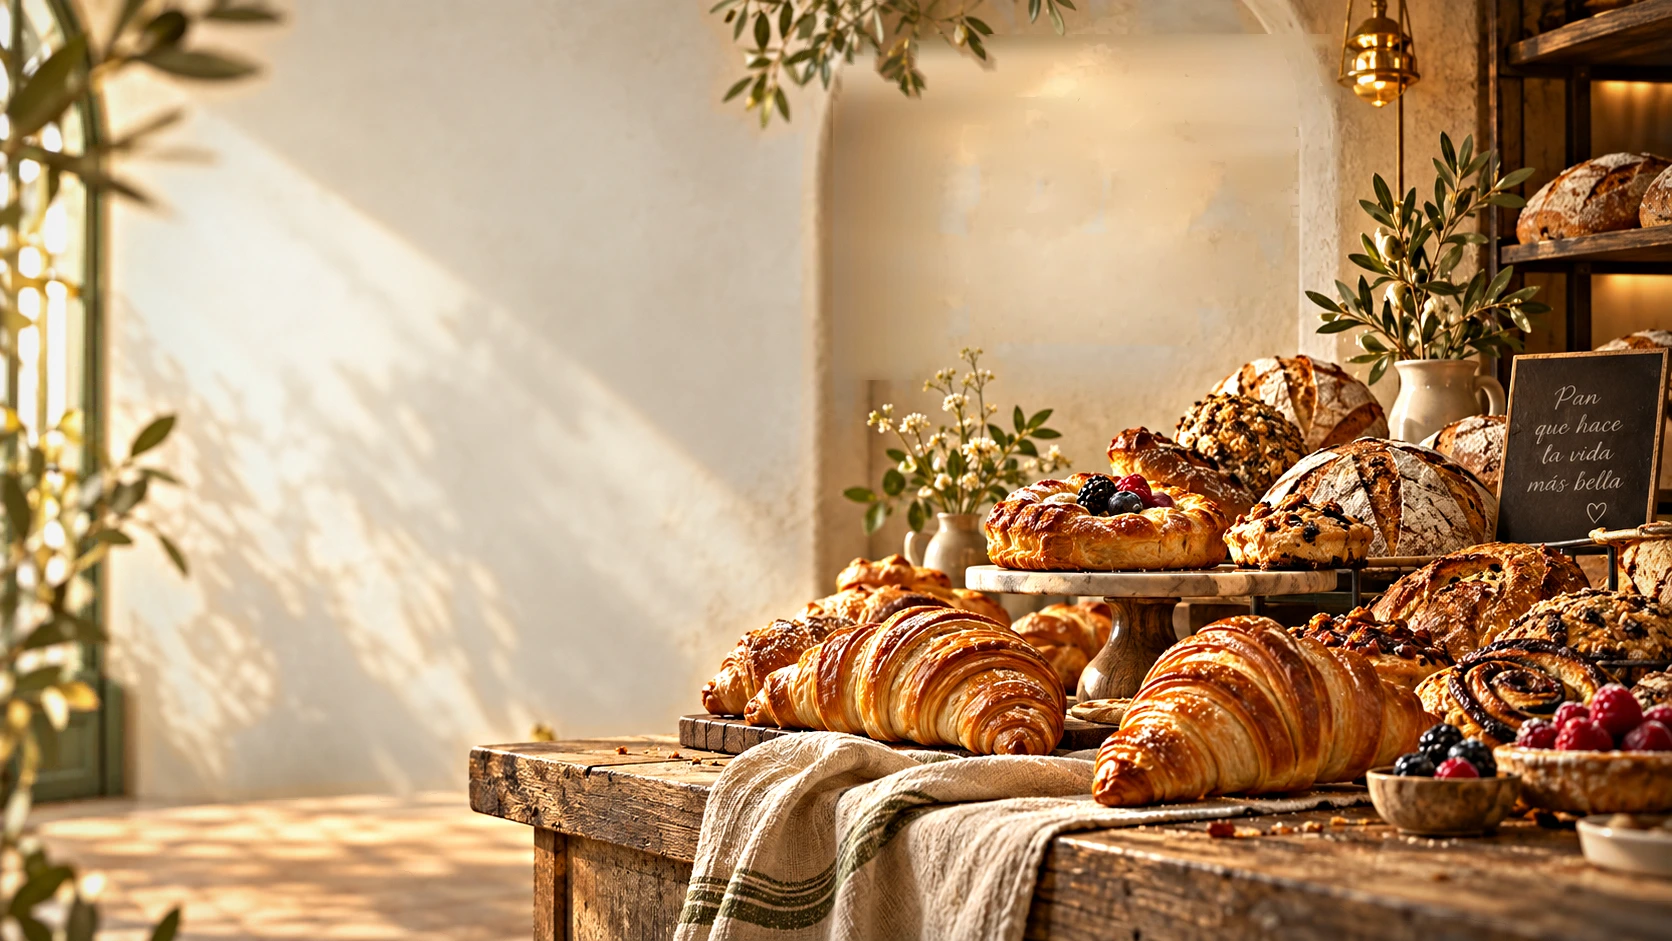
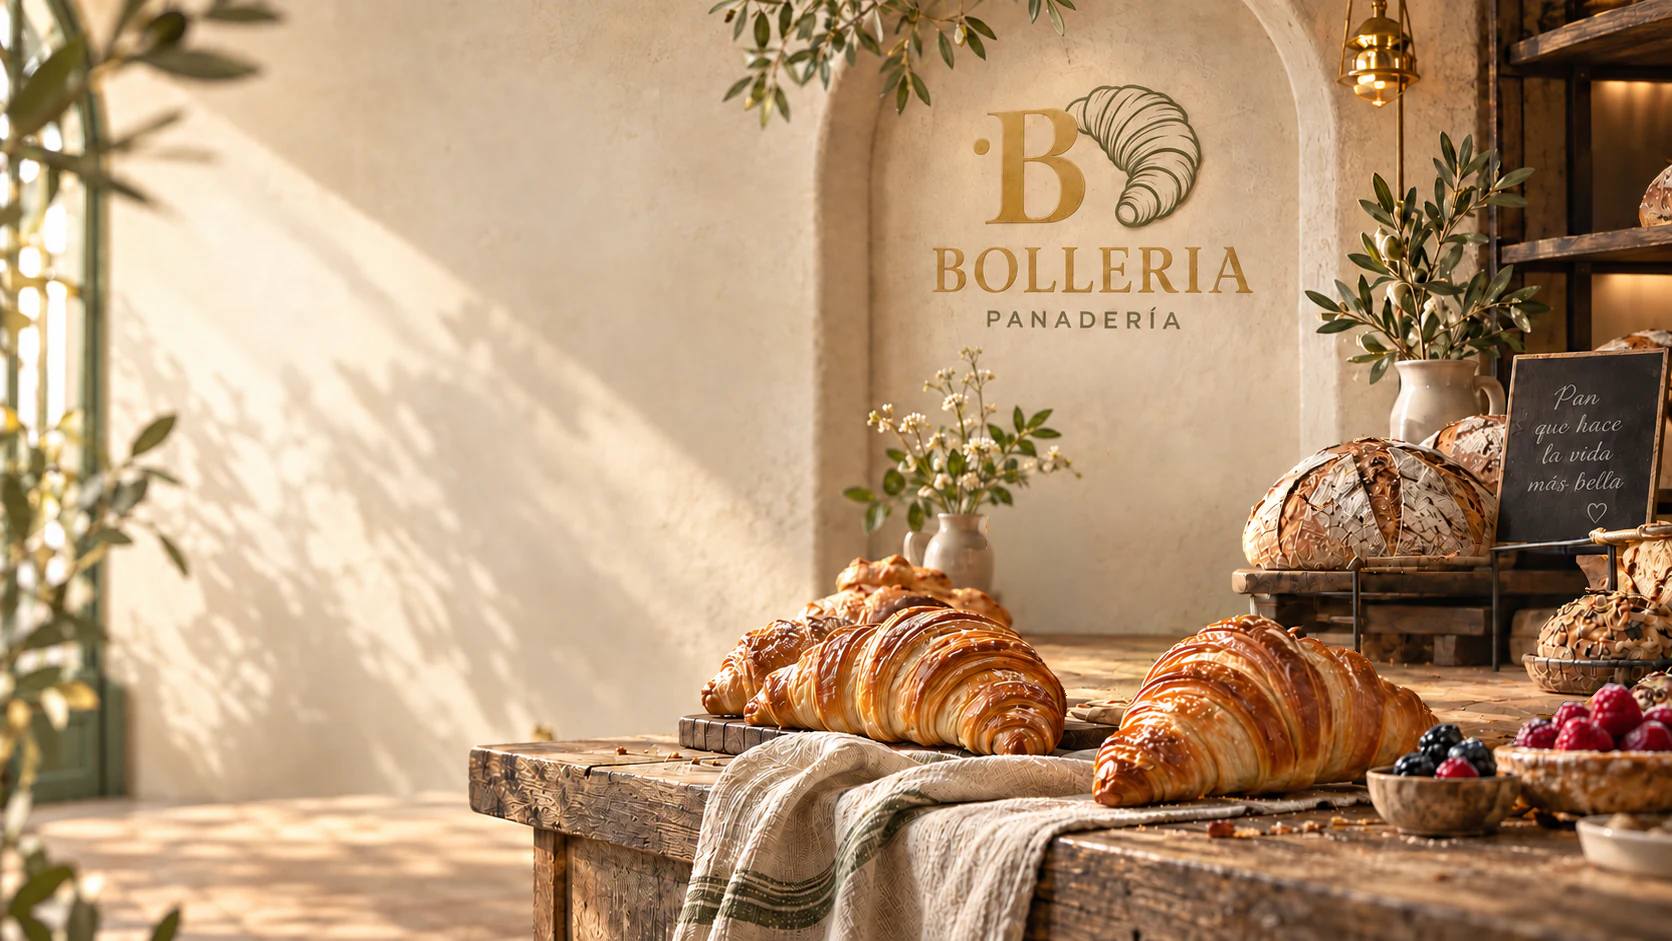
transiciondel hero

diff --git a/libs/bolleria-v2/frontend/inicio/src/lib/hero-capas.component.ts b/libs/bolleria-v2/frontend/inicio/src/lib/hero-capas.component.ts
@@ -10,8 +10,8 @@ import { isPlatformBrowser } from '@angular/common';
 import { BolleriaStore, waDirectLink } from '@bolleria-v2-ui-shared';
 
 /**
- * Hero de la v2: la escena de obrador en capas, que además se VACÍA paso a paso
- * mientras cambian las palabras.
+ * Hero de la v2: la escena de obrador, que además se LLENA paso a paso mientras
+ * cambian las palabras.
  *
  * Sustituye a `HeroScrollComponent`, que capturaba el scroll durante 700vh para
  * reproducir 233 cuadros (90,4 MB de descarga antes de enseñar nada). Aquí el
@@ -32,33 +32,31 @@ import { BolleriaStore, waDirectLink } from '@bolleria-v2-ui-shared';
  * v1- no puede morder; y no existen estados intermedios, así que quedarse a
  * mitad de un segmento es imposible en vez de improbable.
  *
- * ── Por qué el mostrador puede vaciarse sin que se note el corte
+ * ── Por qué el mostrador puede llenarse sin que se note el corte
  *
- * Los tres estados son tres renders de la MISMA escena con menos pan cada vez.
- * Medido: el desplazamiento que mejor los hace coincidir es dx 0, dy 0 en los
- * tres pares, y el muro difiere 1,5 sobre 255. Sobre esa base, las imágenes se
- * hornearon forzando que fuera del mostrador los estados 2 y 3 sean el MISMO
- * píxel que el 1 -diferencia máxima 0 por canal, verificada-. Ahí el fundido es
- * una operación nula por construcción: no se puede ver. Lo único que cambia en
- * pantalla es el pan.
+ * Las tres paradas NO son tres renders sueltos. Los renders originales pintaban
+ * distinto hasta los panes que se repiten -la pieza de frutos rojos, la hogaza,
+ * el brillo del croissant- y la luz de la 3 era más cálida, así que al cambiar
+ * de parada el pan que se quedaba se transformaba. Se rehicieron como
+ * fotomontaje: la 3 es la maestra y cada parada anterior es la 3 quitándole el
+ * pan que todavía no existe. Lo que queda revelado detrás -muro, estante, mesa-
+ * sale del render correspondiente con la luz igualada a la 3; cada pan que
+ * persiste es el de la 3, el mismo píxel en todas las paradas donde aparece.
  *
- * ── Por qué el logo va aparte
+ * Por eso el estado 1 es la escena entera y los estados 2 y 3 son CAPAS
+ * TRANSPARENTES con sólo lo que cambia. Fuera de eso la capa tiene alfa 0
+ * exacto, medido tras la compresión WebP, y compuestas dan la parada al píxel
+ * -diferencia máxima 0-: ahí el fundido no se disimula, sencillamente no existe.
+ * El procedimiento está en `assets/hero-capas/_fuente/LEEME.txt`.
  *
- * Entre el primer render y el tercero el logotipo se corre 18 px y crece. En un
- * fundido eso se vería deslizarse, y es la marca. Así que el logo, la rama y el
- * olivo se pintan como capas comunes, idénticas en los tres estados, y de los
- * fondos se retiran. (Al hacerlo salió que la capa del logo no era un logo
- * recortado sino un parche del muro que arrastraba un trozo de hogaza; con el
- * pan debajo era inocuo, pero en el estado 3 se quedaba flotando. Va recortada.)
+ * ── Por qué en el teléfono hay un parche de muro
  *
- * ── De qué sirven las capas, aparte del vaciado
- *
- * La profundidad no se simula moviendo cosas, se construye tratando cada plano
- * por separado y horneando el resultado. Sobre la imagen plana esto es imposible
- * -un desenfoque del fondo hace sangrar el pan sobre el muro y deja halo-; con
- * el fondo aislado, el borde del pan queda nítido contra un fondo suave, que es
- * lo que hace un objetivo real. Medido, la separación entre el pan y el muro
- * pasa de 2,76x a 4,92x en color y de 3,86x a 4,85x en detalle.
+ * El logo viene pintado en la escena. En vertical el recorte lo deja justo
+ * detrás del titular y se leen dos textos encima del otro. No existe una
+ * versión del muro sin logo, así que se construyó un parche: la luz del muro
+ * rellenada desde alrededor del logo y la textura del estuco tomada de un paño
+ * limpio de la misma pared. Se declara sólo por debajo de 720 px, como fondo CSS
+ * dentro de la media query, y en escritorio ni siquiera se descarga.
  *
  * ── Rendimiento, medido con GPU real
  *
@@ -78,7 +76,8 @@ import { BolleriaStore, waDirectLink } from '@bolleria-v2-ui-shared';
  * Funcionaba -el fondo clavado, el primer plano abriéndose- pero se descartó: la
  * profundidad tenía que estar en la imagen, no en el movimiento. El paralaje de
  * scroll del olivo, que sí quedaba, se retiró al pasar a la secuencia por pasos:
- * ver la nota de `capas`. Ahora no se mueve nada que no sea el pan.
+ * repartido en dos saltos de 400 ms se veía como una capa suelta deslizándose
+ * sobre el muro. Ahora no se mueve nada que no sea el pan.
  */
 @Component({
   selector: 'bol-hero-capas',
@@ -126,27 +125,6 @@ export class HeroCapasComponent implements OnDestroy {
       enfasis: 'sin el tuyo.',
       bajada: 'Todo lo que sale del horno cada mañana está en la carta.',
     },
-  ];
-
-  /**
-   * El olivo del primer plano. Llevan horneado un desenfoque mayor que el del
-   * fondo: están más cerca que el plano de foco, y ese desenfoque de primer
-   * plano es la firma de la fotografía de producto cara.
-   *
-   * QUIETAS. Tuvieron un paralaje atado al progreso del scroll, que tenía
-   * sentido mientras el scroll dibujaba: la capa avanzaba un 2,8 % y un -4,5 %
-   * del alto a lo largo del recorrido y eso daba profundidad al bajar. Con la
-   * secuencia por pasos el scroll ya no dibuja, así que ese mismo recorrido se
-   * repartía en dos saltos de 400 ms y se veía como una capa suelta deslizándose
-   * -reportado sobre la franja izquierda, que es donde el borde de la capa cae
-   * sobre muro liso y el movimiento canta-. Medido: quitándolas, el primer paso
-   * cambia CERO píxeles en los 320 px de la izquierda; con ellas, 6392.
-   *
-   * La profundidad ya está en la imagen, que era el criterio desde el principio.
-   */
-  readonly capas = [
-    { src: 'assets/hero-capas/hero-rama.webp' },
-    { src: 'assets/hero-capas/hero-hojas.webp' },
   ];
 
   /**
@@ -232,8 +210,8 @@ export class HeroCapasComponent implements OnDestroy {
   constructor() {
     if (!this.isBrowser) return;
     const reducido = window.matchMedia?.('(prefers-reduced-motion: reduce)').matches ?? false;
-    // Sin movimiento no hay secuencia ni captura: una pantalla, la escena llena y
-    // el primer titular, y el scroll es del navegador de principio a fin.
+    // Sin movimiento no hay secuencia ni captura: una pantalla, la primera
+    // parada y el primer titular, y el scroll es del navegador de principio a fin.
     if (reducido) return;
     // `passive: false` en los dos que hay que poder cancelar para que la página
     // no se mueva mientras el hero manda.

diff --git a/libs/bolleria-v2/frontend/inicio/src/lib/hero-capas.component.scss b/libs/bolleria-v2/frontend/inicio/src/lib/hero-capas.component.scss
@@ -26,7 +26,7 @@
   --dur: 400ms;
   --dur-txt: 180ms;
   --curva: cubic-bezier(0.4, 0, 0.2, 1);
-  // Ya no queda ningún paralaje: las capas del olivo van quietas.
+  // No queda ningún paralaje: en la escena sólo cambia el pan.
   /**
    * Retrasos por pieza. Los escribe el componente: 220ms para la que entra, 0
    * para la que sale. En reposo, sin JavaScript, todos a cero y no pasa nada
@@ -129,16 +129,14 @@
 
 /**
  * El fondo es la escena aprobada y va sin ampliar: cualquier escala extra la
- * recorta más y deja de leerse como la imagen. No la necesita, porque el fondo no
- * se mueve — quien se mueve es el primer plano, y el hueco que deja ya está
- * rellenado dentro de esta misma capa.
+ * recorta más y deja de leerse como la imagen. No la necesita, porque no se
+ * mueve nada.
  *
  * Sin escala, `cover` deja ver el 90 % del ancho (la imagen es 16:9 y el hero es
  * más cuadrado). Con el `scale(1.22)` que había antes se quedaba en el 74 %, y de
  * ahí venía que todo saliera enorme.
  */
-.bol-heroc__muro,
-.bol-heroc__logo {
+.bol-heroc__muro {
   position: absolute;
   inset: 0;
   width: 100%;
@@ -148,24 +146,20 @@
   pointer-events: none;
   user-select: none;
   /**
-   * Quietos los dos, y sin `will-change`: al no moverse no necesitan capa de
-   * composición propia ni margen de escala, así que muestran el 100 % del
-   * encuadre aprobado.
-   *
-   * El logo va en su propia imagen y no horneado en el fondo por una sola razón:
-   * en vertical el recorte lo deja justo detrás del titular y se leen dos textos
-   * encima del otro. Separado se puede retirar sólo ahí.
+   * Quietos y sin `will-change`: al no moverse no necesitan capa de composición
+   * propia ni margen de escala, así que muestran el 100 % del encuadre aprobado.
    */
 }
 
 /**
  * Los estados 2 y 3 del mostrador, encima del 1 y en el mismo encuadre exacto.
  *
- * Sólo cambia la opacidad, que el compositor resuelve sin repintar. Y fuera del
- * mostrador los tres archivos son el MISMO píxel -diferencia máxima 0 por canal,
- * medida-, así que en el 63 % de la pantalla el fundido es aritméticamente una
- * operación nula. Por eso «sólo faltan los elementos» no es una impresión: es
- * una propiedad del montaje, no algo que haya que disimular con la velocidad.
+ * Sólo cambia la opacidad, que el compositor resuelve sin repintar. Y son capas
+ * transparentes con sólo lo que cambia -el 5 y el 8 % de la escena-: fuera
+ * de él su alfa es 0 exacto, medido tras la compresión, así que en el resto de
+ * la pantalla el fundido es aritméticamente una operación nula. Por eso «sólo
+ * aparece el pan» no es una impresión: es una propiedad del montaje, no algo
+ * que haya que disimular con la velocidad.
  */
 .bol-heroc__muro--2 {
   opacity: var(--o2);
@@ -178,25 +172,14 @@
 }
 
 /**
- * El primer plano comparte encuadre exacto con el fondo -son recortes del mismo
- * archivo-, así que se dimensiona igual. Sólo cambia el desplazamiento.
+ * El parche de muro que tapa el logo pintado. Aquí no lleva imagen: se declara
+ * sólo dentro de la media query de estrecho, así que en escritorio el navegador
+ * no la pide.
  */
-.bol-heroc__capa {
+.bol-heroc__parche {
   position: absolute;
   inset: 0;
-  width: 100%;
-  height: 100%;
-  object-fit: cover;
-  object-position: 50% 50%;
-  /**
-   * Quietas y sin `will-change`. Llevaban una traslación atada al progreso del
-   * scroll; con la secuencia por pasos ese recorrido se repartía en dos saltos y
-   * se veía deslizar la capa sobre el muro. La nota larga está en `capas`, en el
-   * componente. Aquí ya no hay transformación, así que tampoco hay nada que
-   * promover a capa de compositor.
-   */
   pointer-events: none;
-  user-select: none;
 }
 
 /**
@@ -453,21 +436,22 @@
 @media (max-width: 720px) {
   /**
    * En vertical, una escena 16:9 se recorta mucho: se abre el encuadre hacia la
-   * derecha, donde está el pan. El fondo y el primer plano tienen que llevar
-   * SIEMPRE el mismo `object-position` o se desalinean entre sí.
+   * derecha, donde está el pan. Las capas y el parche tienen que llevar SIEMPRE
+   * el mismo encuadre o se desalinean entre sí.
    *
    * Esto es un apaño hasta que exista la versión vertical de la escena, que es
    * la solución de verdad para el móvil.
    */
-  .bol-heroc__muro,
-  .bol-heroc__logo,
-  .bol-heroc__capa {
+  .bol-heroc__muro {
     object-position: 64% 50%;
   }
 
-  // El titular manda: dos marcas superpuestas no se leen ni una ni otra.
-  .bol-heroc__logo {
-    display: none;
+  // El titular manda: dos marcas superpuestas no se leen ni una ni otra. El
+  // parche tapa el logo pintado con el mismo encuadre que la escena: `cover` y
+  // `background-position` reparten el sobrante igual que `object-fit` y
+  // `object-position`.
+  .bol-heroc__parche {
+    background: url('/assets/hero-capas/hero-muro-movil.webp') 64% 50% / cover no-repeat;
   }
 
   .bol-heroc__velo {
@@ -575,10 +559,10 @@
 
 @media (prefers-reduced-motion: reduce) {
   /**
-   * El hero no se clava y no se vacía: una pantalla, la escena llena y el primer
-   * titular. Los estados 2 y 3 se retiran del todo -no basta con dejarlos a
-   * opacidad 0- para no descargar y componer dos imágenes de pantalla completa
-   * que no se van a ver nunca.
+   * El hero no se clava y no se llena: una pantalla, la primera parada y el
+   * primer titular. Los estados 2 y 3 se retiran del todo -no basta con dejarlos
+   * a opacidad 0- para no componer dos capas de pantalla completa que no se van
+   * a ver nunca.
    */
   .bol-heroc {
     height: 100vh;

diff --git a/libs/bolleria-v2/frontend/inicio/src/lib/hero-capas.component.html b/libs/bolleria-v2/frontend/inicio/src/lib/hero-capas.component.html
@@ -3,10 +3,10 @@
 <section class="bol-heroc">
   <div class="bol-heroc__fijo">
     <div class="bol-heroc__escena" aria-hidden="true">
-      <!-- Los tres estados del mostrador. El primero va siempre debajo y opaco:
-           así nunca hay un hueco, pase lo que pase con los otros dos. Fuera del
-           mostrador los tres son el mismo píxel, de modo que el fundido sólo se
-           ve donde hay pan. -->
+      <!-- Los tres estados del mostrador. El primero es la escena entera y va
+           siempre debajo y opaco: así nunca hay un hueco. El 2 y el 3 son capas
+           transparentes con sólo el pan que aparece, de modo que el fundido
+           sólo se ve donde hay pan. -->
       <img
         class="bol-heroc__muro"
         src="assets/hero-capas/hero-fondo-1.webp"
@@ -28,16 +28,11 @@
         decoding="async"
         fetchpriority="low"
       />
-      <!-- El logo pintado en la pared, en su propia capa y COMÚN a los tres
-           estados: entre el primer render y el tercero se corre 18 px, y en un
-           fundido eso se vería deslizarse. En vertical el recorte lo deja justo
-           debajo del titular y se leen dos textos encima del otro, así que ahí
-           se retira: la marca ya está en el nav. -->
-      <img class="bol-heroc__logo" src="assets/hero-capas/hero-logo.webp" alt="" decoding="async" />
-      <!-- El olivo del primer plano: parte de la imagen, no una animación. -->
-      @for (c of capas; track c.src) {
-        <img class="bol-heroc__capa" [src]="c.src" alt="" decoding="async" />
-      }
+      <!-- El logo va pintado en la escena. En vertical el recorte lo deja justo
+           detrás del titular y se leen dos textos encima del otro, así que en
+           el teléfono lo tapa este parche de muro. En escritorio no se pinta ni
+           se descarga: la imagen sólo existe dentro de la media query. -->
+      <span class="bol-heroc__parche"></span>
       <span class="bol-heroc__velo"></span>
     </div>
 
@@ -68,8 +63,8 @@
 
       <!-- Dos juegos de botones apilados en la misma celda, igual que los
            textos: el bloque mide siempre lo que el más alto y nada salta al
-           relevarse. En la última parada la escena ya está vacía, así que las
-           dos píldoras dejan sitio a una sola que lleva a la carta. -->
+           relevarse. En la última parada el mostrador ya está lleno, y las dos
+           píldoras dejan sitio a una sola que lleva a la carta. -->
       <div class="bol-heroc__acciones">
         <div class="bol-heroc__grupo">
           <a href="#" (click)="$event.preventDefault(); irAlMenu()" class="bol-heroc__cta bol-btn">
